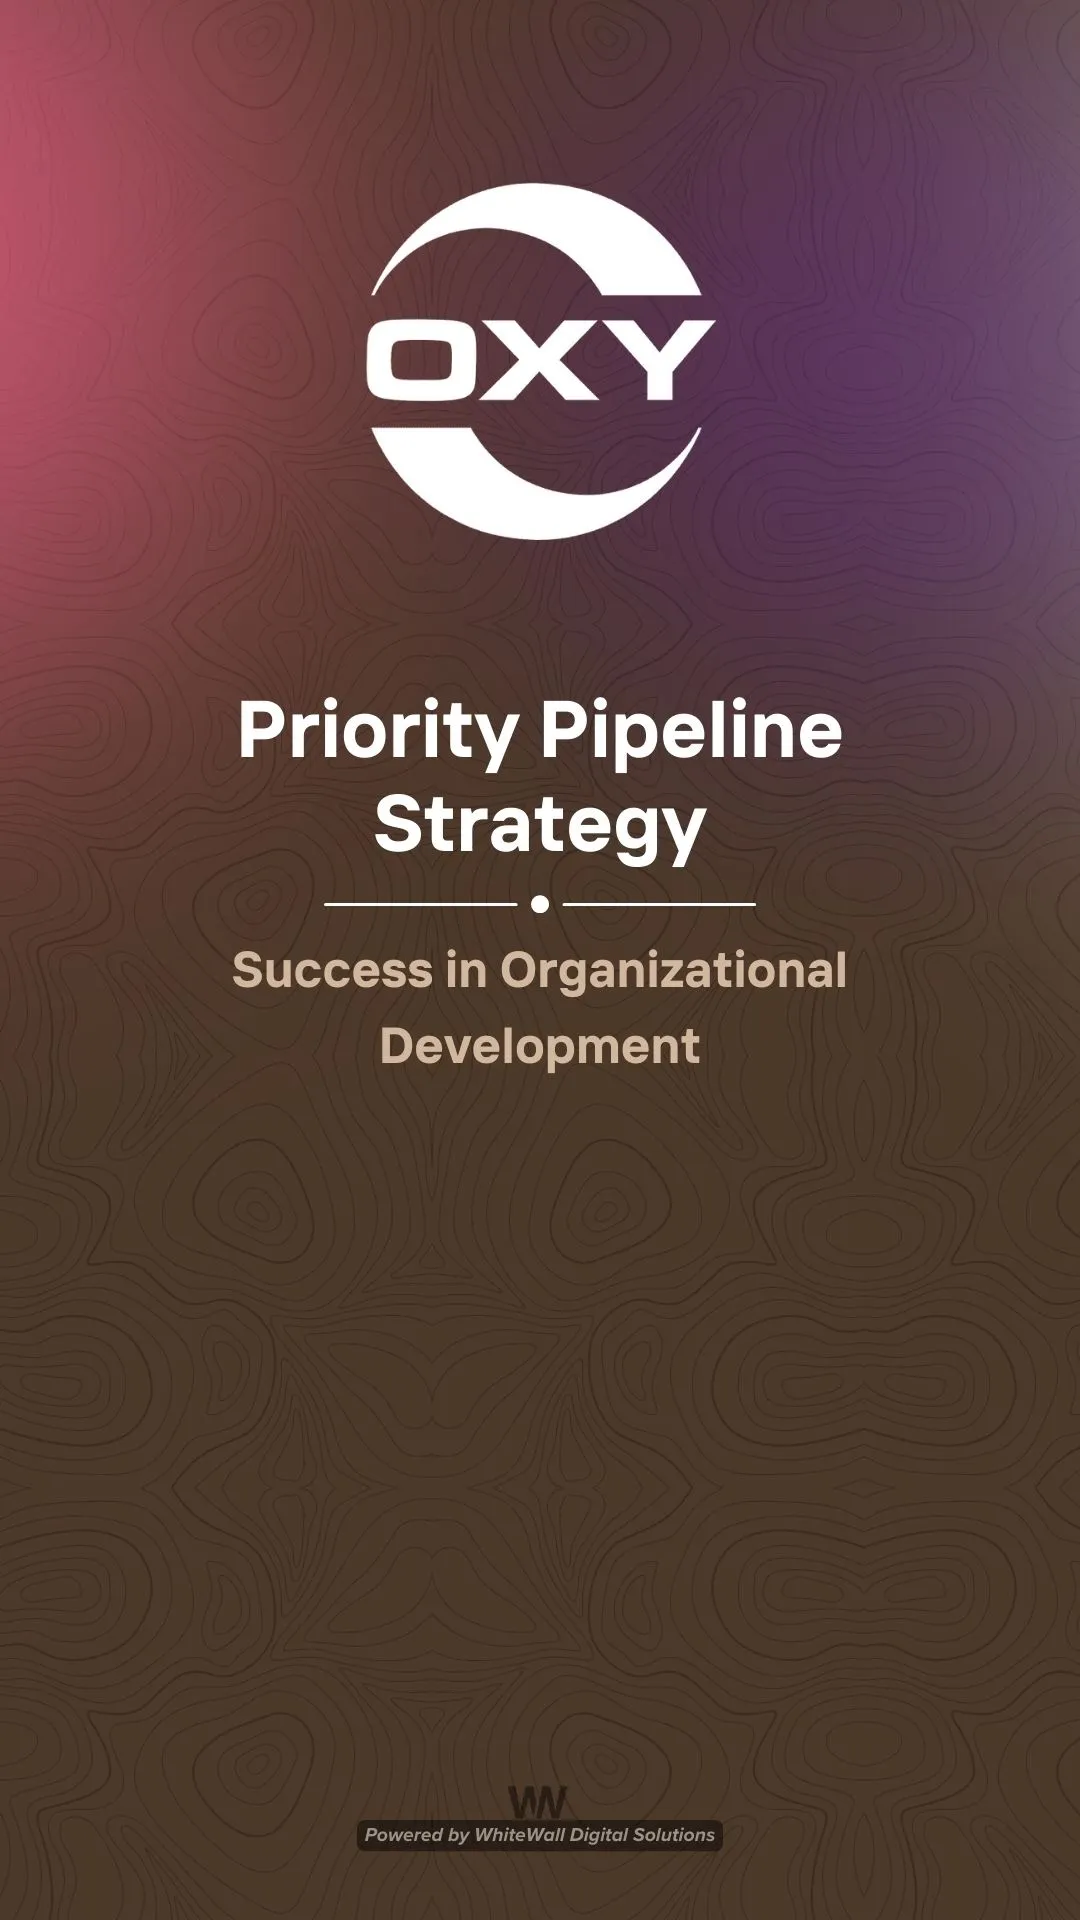
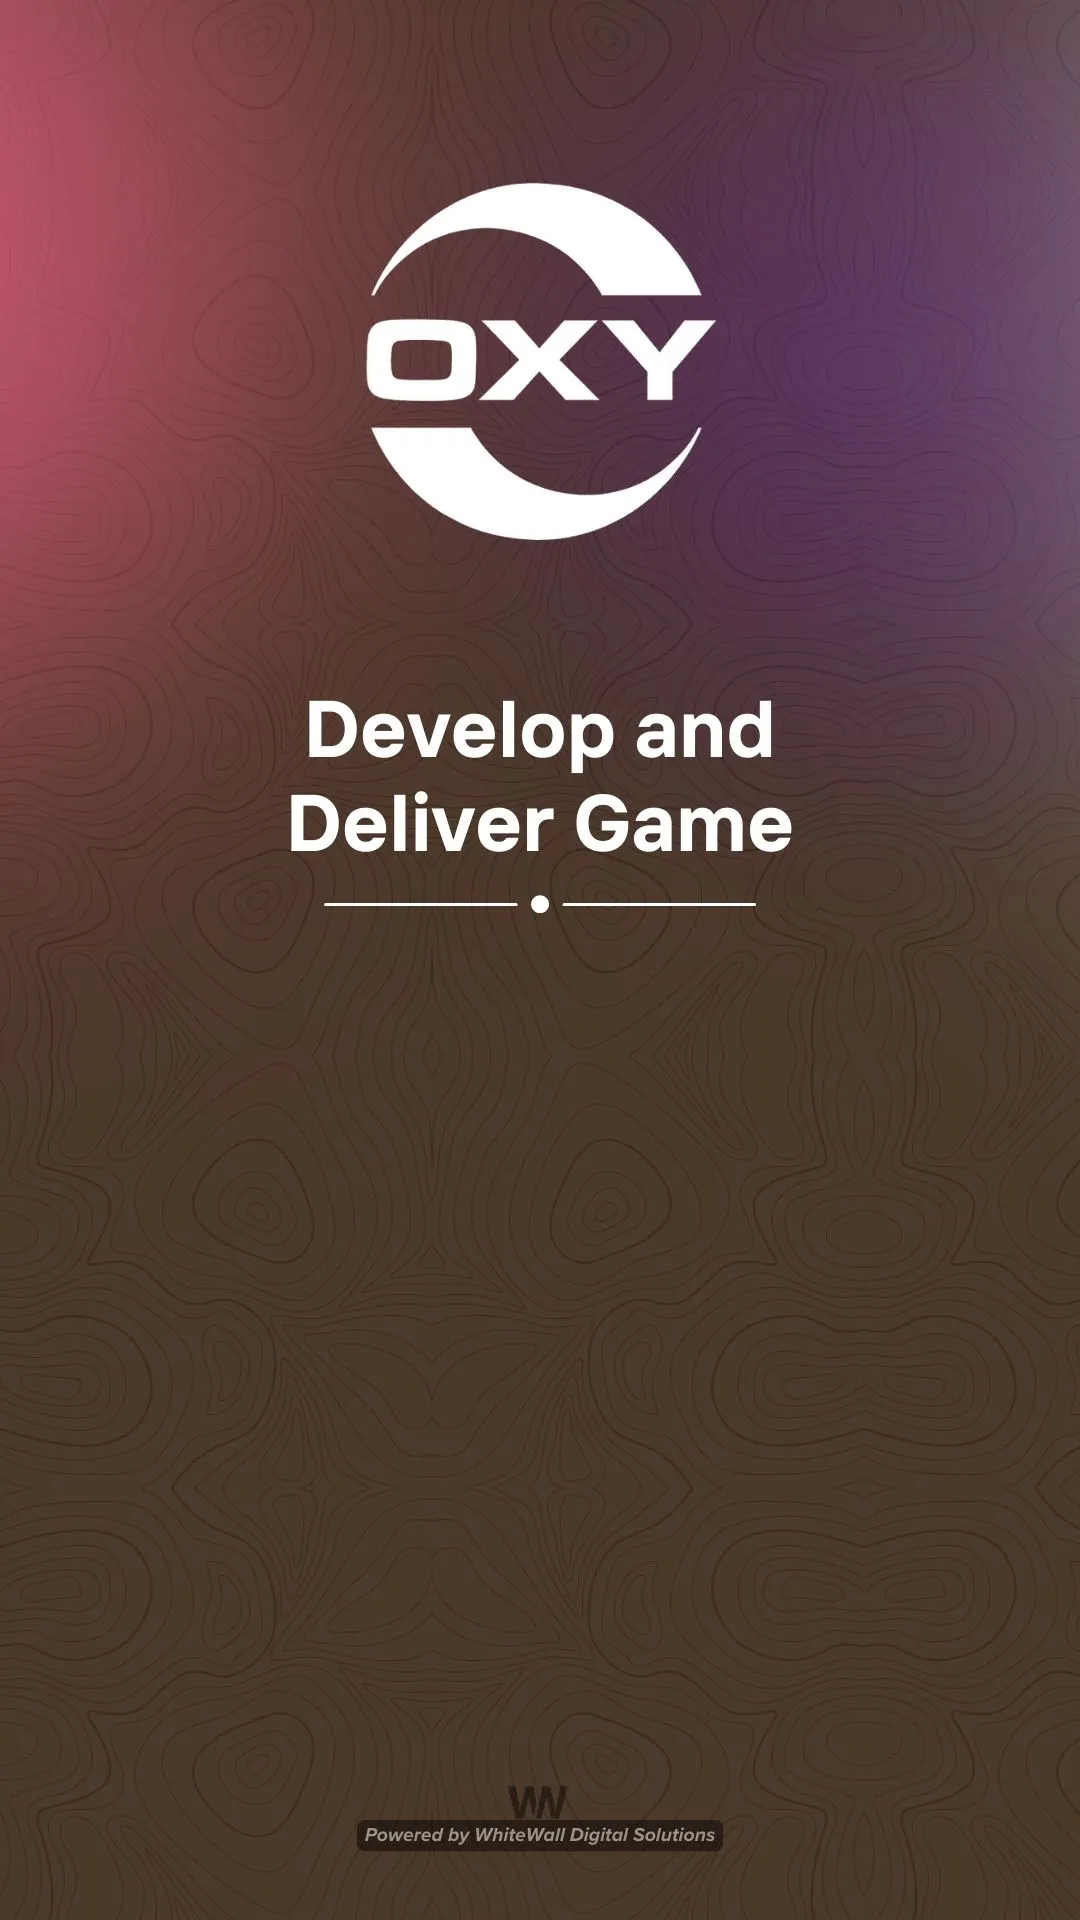
Update/ updated launcher image and added numbers in drop zones with zero touch delay

Changed region(s): [[0.2139, 0.3438, 0.7944, 0.4688], [0.2139, 0.5, 0.7944, 0.5625]]

diff --git a/src/pages/GameScreen.js b/src/pages/GameScreen.js
@@ -83,7 +83,7 @@ function Draggable({ id, children, rotation = 0, margin = "0px", disabled }) {
 // ------------------------------
 // 3) Droppable Component
 // ------------------------------
-function Droppable({ id, children }) {
+function Droppable({ id, children, label }) {
   const { setNodeRef } = useDroppable({ id });
 
   const style = {
@@ -95,10 +95,22 @@ function Droppable({ id, children }) {
     textAlign: "center",
     position: "relative",
     transition: "background-color 0.3s ease",
+    display: "flex",
+    flexDirection: "column",
+    justifyContent: "center",
+    alignItems: "center",
   };
 
   return (
     <Box ref={setNodeRef} style={style} data-id={id}>
+      <Typography
+        variant="body1"
+        sx={{
+          color: children ? "#000" : "#666",
+        }}
+      >
+        {label}
+      </Typography>
       {children || "Drop Here"}
     </Box>
   );
@@ -243,11 +255,11 @@ function GameScreen() {
   const pointerSensor = useSensor(PointerSensor);
   const touchSensor = useSensor(TouchSensor, {
     activationConstraint: {
-      delay: 250,
-      tolerance: 5,
+      delay: 0,       // no delay
+      tolerance: 0,   // optional: start dragging with no movement threshold
     },
     preventDefault: true,
-  });
+  });  
 
   // Decide which sensor to use (mouse or touch)
   const [currentSensor, setCurrentSensor] = useState(pointerSensor);
@@ -481,49 +493,49 @@ function GameScreen() {
           >
             {/* We only render 4 drop zones per screen */}
             <Box display="flex" flexDirection="column" gap="40px">
-              {Array.from({ length: 4 }).map((_, localIndex) => {
-                const showArrow = localIndex < 3;
-                return (
-                  <Box
-                    key={localIndex}
-                    sx={{
-                      position: "relative",
-                      width: { xs: "300px", sm: "500px" },
-                    }}
-                  >
-                    <Droppable id={`${localIndex}`}>
-                      {
-                        placedOptions[
-                          screen === 1 ? localIndex : localIndex + 4
-                        ]
-                      }
-                    </Droppable>
-                    {showArrow && (
-                      <>
-                        <ArrowCircleDown
-                          sx={{
-                            fontSize: "3rem",
-                            color: "#007bff",
-                            position: "absolute",
-                            bottom: "-45px",
-                            left: "10%",
-                          }}
-                        />
-                        <ArrowCircleDown
-                          sx={{
-                            fontSize: "3rem",
-                            color: "#007bff",
-                            position: "absolute",
-                            bottom: "-45px",
-                            right: "10%",
-                          }}
-                        />
-                      </>
-                    )}
-                  </Box>
-                );
-              })}
-            </Box>
+  {Array.from({ length: 4 }).map((_, localIndex) => {
+    const globalIndex =
+      screen === 1 ? localIndex + 1 : localIndex + 5; // Numbers 1-4 for Part 1, 5-8 for Part 2
+    const showArrow = localIndex < 3;
+
+    return (
+      <Box
+        key={localIndex}
+        sx={{
+          position: "relative",
+          width: { xs: "300px", sm: "500px" },
+        }}
+      >
+        <Droppable id={`${localIndex}`} label={globalIndex}>
+          {placedOptions[screen === 1 ? localIndex : localIndex + 4]}
+        </Droppable>
+        {showArrow && (
+          <>
+            <ArrowCircleDown
+              sx={{
+                fontSize: "3rem",
+                color: "#007bff",
+                position: "absolute",
+                bottom: "-45px",
+                left: "10%",
+              }}
+            />
+            <ArrowCircleDown
+              sx={{
+                fontSize: "3rem",
+                color: "#007bff",
+                position: "absolute",
+                bottom: "-45px",
+                right: "10%",
+              }}
+            />
+          </>
+        )}
+      </Box>
+    );
+  })}
+</Box>
+
 
             {/* Scattered Draggables (only those not yet placed + relevant to current screen) */}
             <Box

diff --git a/public/index.html b/public/index.html
@@ -11,7 +11,7 @@
     />
     <link rel="apple-touch-icon" href="%PUBLIC_URL%/logo192.png" />
     <link rel="manifest" href="%PUBLIC_URL%/manifest.json" />
-    <title>OXY Sequence Game</title>
+    <title>Develop and Deliver Game</title>
   </head>
   <body>
     <noscript>You need to enable JavaScript to run this app.</noscript>
